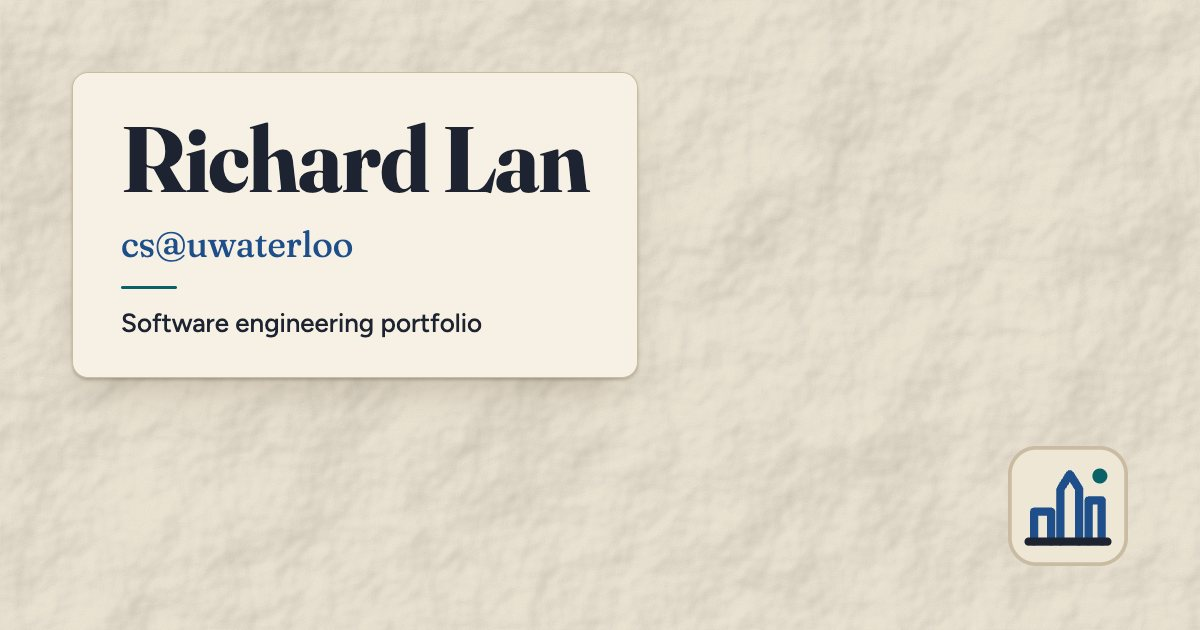
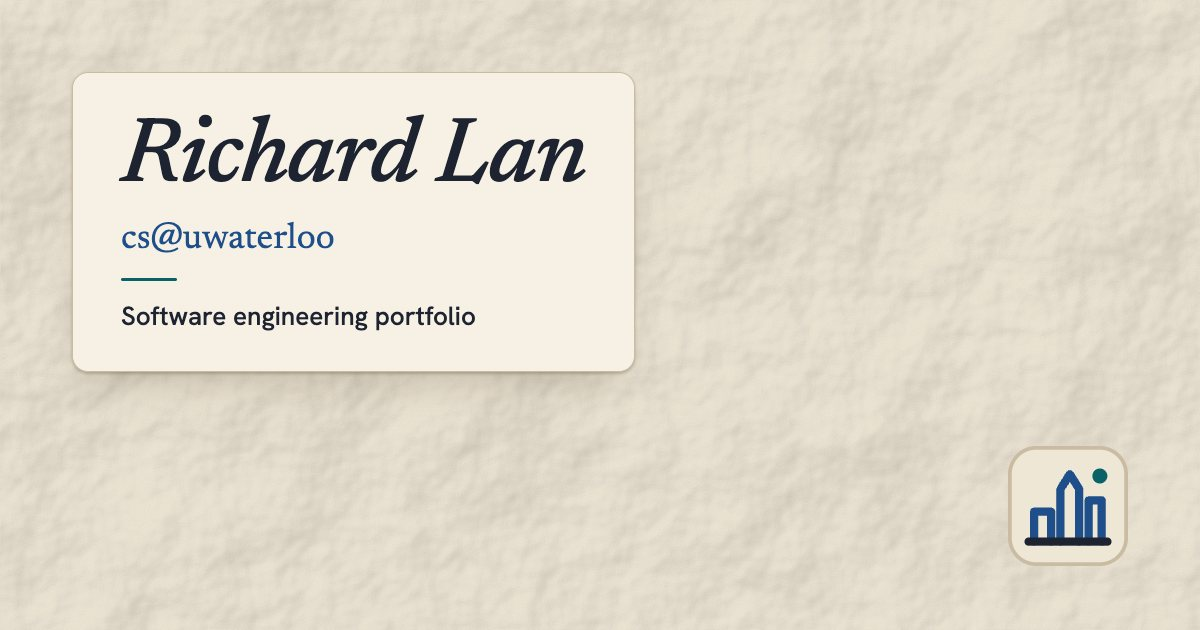
paper: Newsreader and Hanken Grotesk; the name in Newsreader italic, the share card to match
Headings in Newsreader (upright, weight axis only), text in Hanken Grotesk,
both through next/font/google; the hero's name alone in a single Newsreader
500 italic face, loaded on its own. make-identity reads the three faces from
the running site and sets the card's name in the italic.

diff --git a/app/layout.tsx b/app/layout.tsx
@@ -1,5 +1,5 @@
 import type { Metadata, Viewport } from "next";
-import { Figtree, Fraunces } from "next/font/google";
+import { Hanken_Grotesk, Newsreader } from "next/font/google";
 import TopBar from "./components/city2d/TopBar";
 import ResumeHost from "./components/resume/ResumeHost";
 import GlassPress from "./components/ui/GlassPress";
@@ -12,26 +12,34 @@ import "./motion.css";
 import "./reveal.css";
 import "./city-track.css";
 
-// Headings, the name and station names: Fraunces, a soft old-style serif
-// with the look of printed ink, its optical size axis on, so the name is
-// set in its high-contrast display cut and small labels in its sturdy text
-// cut. Text: Figtree, a plain, warm geometric sans, easy to read at small
-// sizes (docs/city/style.md, "Type").
+// Headings and station names: Newsreader, a book-and-newspaper serif,
+// sober and editorial. The name alone is set in its italic (city.css,
+// .hero-name), the one personal, hand-set touch: that single face (500
+// italic) is loaded on its own, so the rest of the italic never ships.
+// Text: Hanken Grotesk, a calm, open grotesque, easy to read at small sizes
+// (docs/city/style.md, "Type").
 //
 // Both come through next/font/google: fetched at build and served from the
 // site itself (no request to Google from the visitor), Latin only, SIL Open
-// Font License. Fraunces is variable (weight and optical size; its other
-// axes left out to keep the file small); Figtree variable (the site uses
-// 400 to 700; next/font's Turbopack loader takes no weight range).
-const display = Fraunces({
+// Font License. Newsreader upright is its variable weight axis (its optical
+// size axis left out: it doubles the file for a barely visible change);
+// Hanken Grotesk variable (the site uses 400 to 700; next/font's Turbopack
+// loader takes no weight range).
+const display = Newsreader({
   subsets: ["latin"],
-  axes: ["opsz"],
-  variable: "--font-fraunces",
+  variable: "--font-newsreader",
   display: "swap",
 });
-const text = Figtree({
+const signature = Newsreader({
   subsets: ["latin"],
-  variable: "--font-figtree",
+  weight: "500",
+  style: "italic",
+  variable: "--font-newsreader-italic",
+  display: "swap",
+});
+const text = Hanken_Grotesk({
+  subsets: ["latin"],
+  variable: "--font-hanken",
   display: "swap",
 });
 
@@ -64,7 +72,7 @@ export default function RootLayout({ children }: LayoutProps<"/">) {
     <html
       lang="en"
       data-scroll-behavior="smooth"
-      className={`${display.variable} ${text.variable}`}
+      className={`${display.variable} ${signature.variable} ${text.variable}`}
       // The scripts below set data-paper, data-still and data-track on <html> before React hydrates
       suppressHydrationWarning
     >

diff --git a/app/city.css b/app/city.css
@@ -115,9 +115,9 @@
   --radius: 10px;
   --radius-lg: 16px;
 
-  /* Set in layout.tsx with next/font */
-  --font-display: var(--font-fraunces), Georgia, "Times New Roman", serif;
-  --font-text: var(--font-figtree), "Helvetica Neue", Arial, sans-serif;
+  /* Set in layout.tsx with next/font (Newsreader, Hanken Grotesk) */
+  --font-display: var(--font-newsreader), Georgia, "Times New Roman", serif;
+  --font-text: var(--font-hanken), "Helvetica Neue", Arial, sans-serif;
 
   /* Motion (docs/ui/ux-motion-principles.md): the only durations and
      curves anything uses. Arrive with --ease-out, travel with
@@ -196,7 +196,7 @@ h3,
 .font-display {
   font-family: var(--font-display);
   line-height: 1.1;
-  /* Fraunces is spaced for print: no extra tracking */
+  /* Newsreader is spaced for print: no extra tracking */
   letter-spacing: 0;
 }
 
@@ -954,10 +954,15 @@ a[data-resume][data-opening] {
 .hero-name {
   color: var(--text);
   font-size: min(clamp(3rem, 9vw, 5.5rem), 13vw);
-  font-weight: 700;
+  /* The one personal touch: the name hand-set in the serif's italic, at a
+     medium weight, so it reads like a signature over a printed page
+     (layout.tsx loads that one face alone) */
+  font-family: var(--font-newsreader-italic), var(--font-display);
+  font-style: italic;
+  font-weight: 500;
   line-height: 1.1;
   /* The serif's display cut sits a touch tight at this size */
-  letter-spacing: -0.01em;
+  letter-spacing: -0.015em;
   overflow-wrap: break-word;
 }
 
